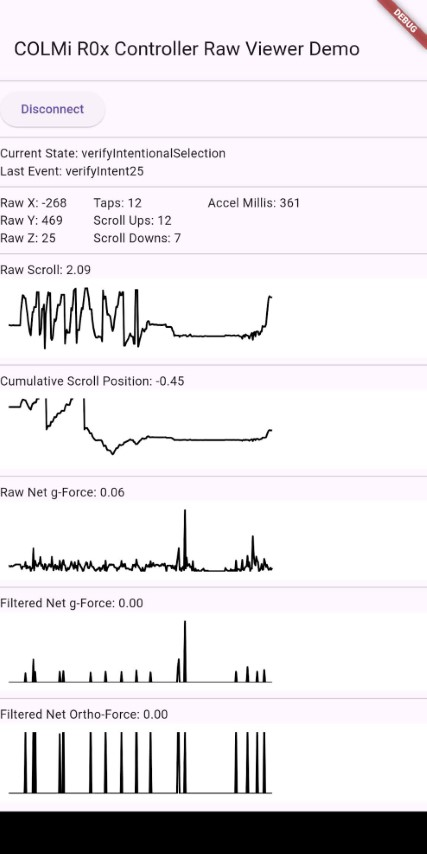
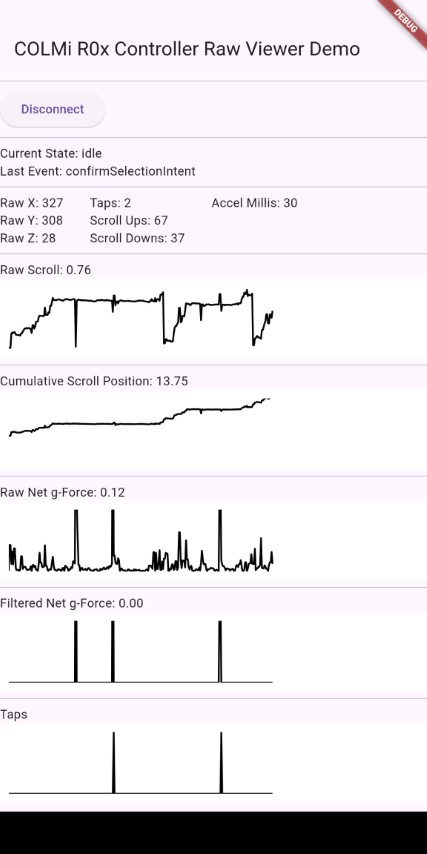
updated raw_viewer.jpg to show current appearance, provided library-level README

diff --git a/README.md b/README.md
@@ -1,3 +1,16 @@
 # colmi_r0x_controller
 
-COLMi R0x Controller Demo
+COLMi R02-R06 Ring-as-Controller - scroll and tap to select
+
+### Example apps
+![Screenshot](examples/sample_ui/docs/sample_ui.jpg)
+![Screenshot](examples/raw_viewer/docs/raw_viewer.jpg)
+
+### Controller Interaction Model:
+ - Wave gesture to wake
+ - Perform a full rotation Scroll Up to confirm Wakeup (or flip the ring around if it's scrolling down)
+ - Once confirmed, ring is in the User Input state and should recognise Scroll Up, Scroll Down and (tap to) Select
+ - (Taps can be missed when accelerometer is only sampled every 250ms, so tap hard and tap often. 30ms sampling should be happening on Android.)
+ - Perform a full rotation Scroll Up to confirm the Select command
+ - If confirmation rotation for Wakeup or Select is too slow, it times out back to Idle or User Input states respectively
+ - Down scrolling while in the Verify Wakeup or Verify Selction state cancels the verification back to Idle and User Input states respectively.
